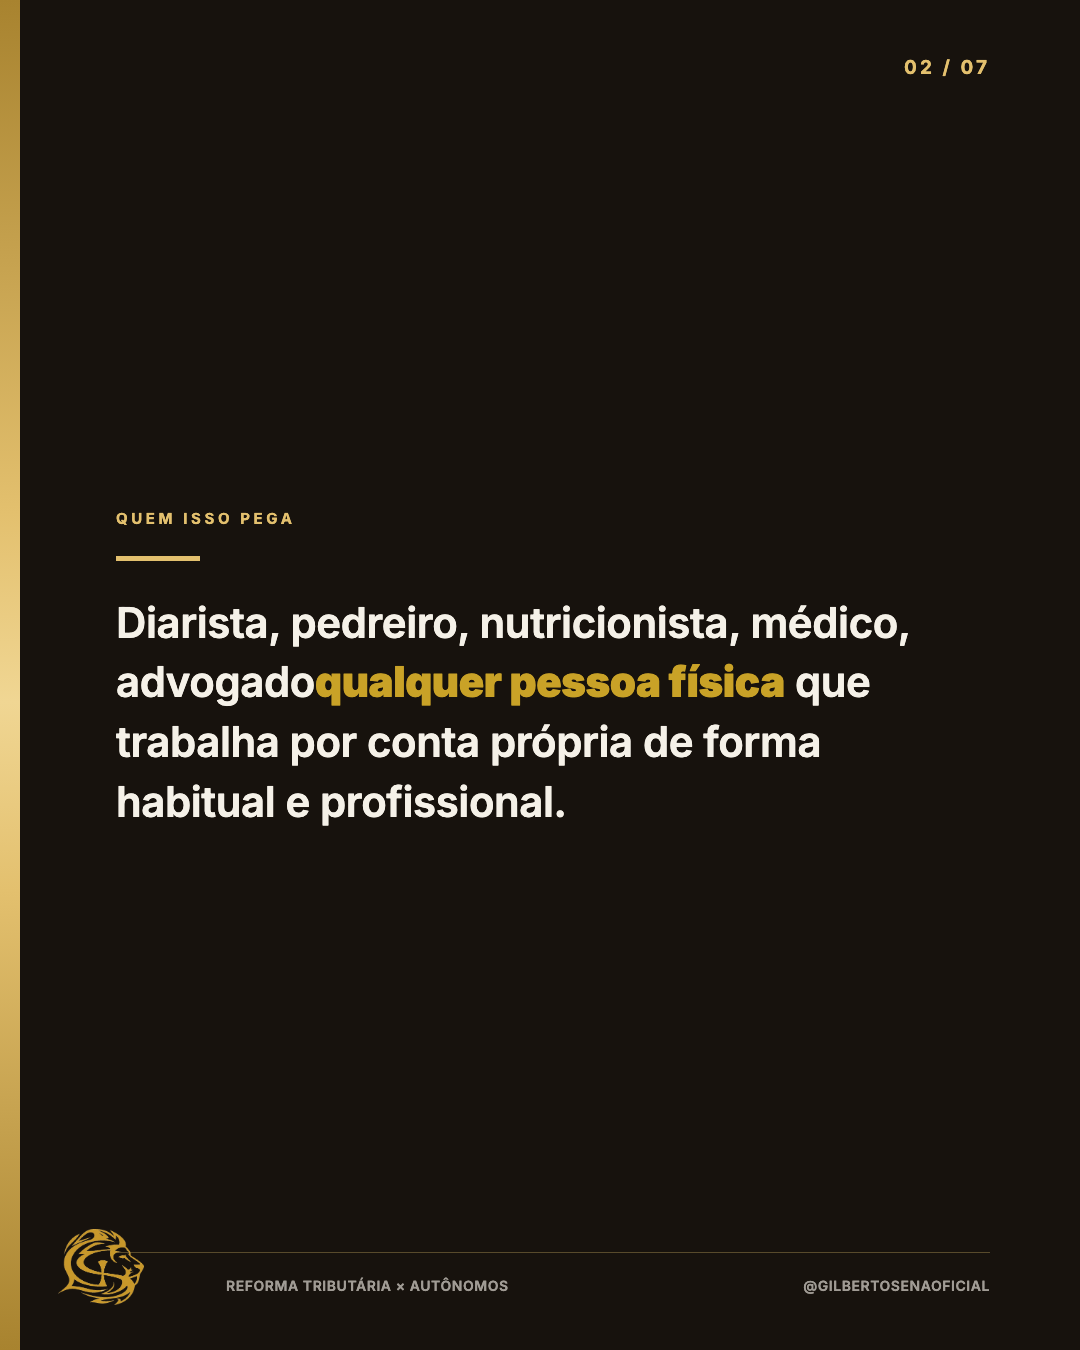
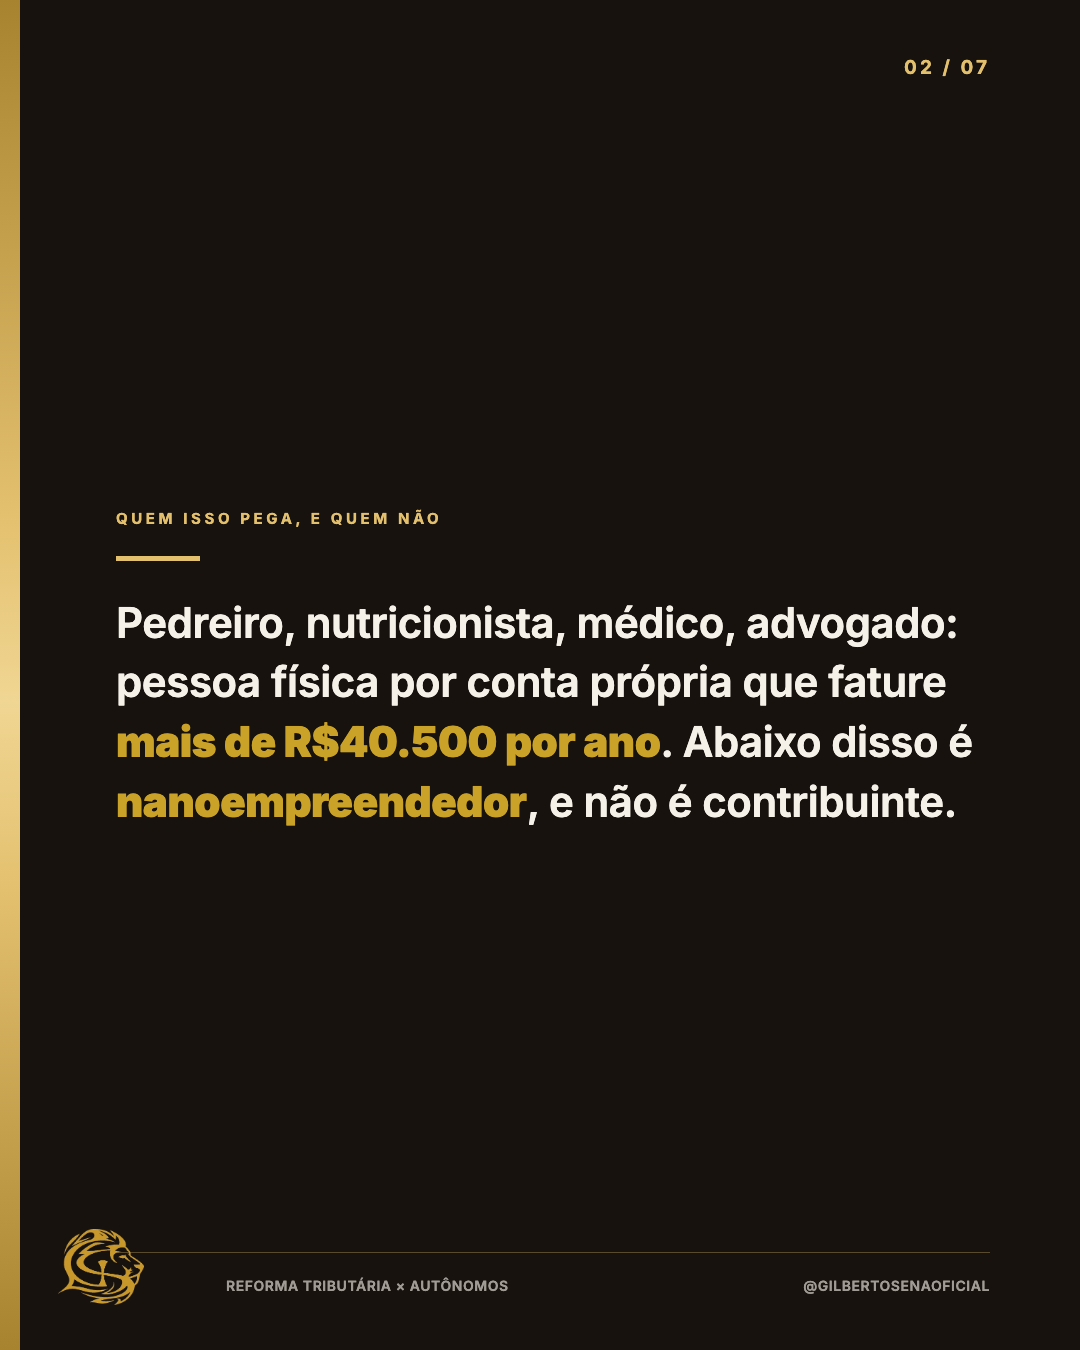
Carrossel do autonomo: entra o limiar de R$40.500 do nanoempreendedor

Changed region(s): [[0.0917, 0.4356, 0.9167, 0.6222], [0.3056, 0.3733, 0.3972, 0.4044]]

diff --git a/saidas/CARROSSEIS/carrossel-pf-autonomo-cbs-2026-08-27/carrossel.html b/saidas/CARROSSEIS/carrossel-pf-autonomo-cbs-2026-08-27/carrossel.html
@@ -162,9 +162,9 @@
     <div class="brand"><img class="logo-icon" src="../../../identidade/logo-transparente-crop.png" alt="Grupo Sena"><span class="wordmark">GILBERTO SENA</span></div>
     <span class="counter">02 / 07</span>
   </div>
-  <div class="kicker">QUEM ISSO PEGA</div>
+  <div class="kicker">QUEM ISSO PEGA, E QUEM NÃO</div>
   <div class="rule"></div>
-  <div class="solo-body">Diarista, pedreiro, nutricionista, médico, advogado<b>qualquer pessoa física</b> que trabalha por conta própria de forma habitual e profissional.</div>
+  <div class="solo-body">Pedreiro, nutricionista, médico, advogado: pessoa física por conta própria que fature <b>mais de R$40.500 por ano</b>. Abaixo disso é <b>nanoempreendedor</b>, e não é contribuinte.</div>
   <div class="footer"><span>REFORMA TRIBUTÁRIA × AUTÔNOMOS</span><span>@GILBERTOSENAOFICIAL</span></div>
 </div>
 
@@ -211,9 +211,9 @@
     <div class="brand"><img class="logo-icon" src="../../../identidade/logo-transparente-crop.png" alt="Grupo Sena"><span class="wordmark">GILBERTO SENA</span></div>
     <span class="counter">06 / 07</span>
   </div>
-  <div class="kicker">E NÃO PARA AÍ</div>
+  <div class="kicker">A EXCEÇÃO QUE VALE SABER</div>
   <div class="rule"></div>
-  <div class="solo-body">Vai precisar de <b>CNPJ técnico</b>, emitir <b>nota fiscal</b>, e provavelmente de ajuda profissional pra dar conta da gestão.</div>
+  <div class="solo-body">Motorista e entregador de aplicativo só entram acima de <b>R$162 mil por ano</b>, porque só 25% da corrida conta como receita. Quem passa do limiar precisa de <b>CNPJ</b> e <b>nota fiscal</b>.</div>
   <div class="footer"><span>REFORMA TRIBUTÁRIA × AUTÔNOMOS</span><span>@GILBERTOSENAOFICIAL</span></div>
 </div>
 

diff --git a/saidas/CARROSSEIS/carrossel-pf-autonomo-cbs-2026-08-27/legenda.md b/saidas/CARROSSEIS/carrossel-pf-autonomo-cbs-2026-08-27/legenda.md
@@ -1,14 +1,16 @@
-A partir de 2027, praticamente todo autônomo e profissional liberal vai pagar mais imposto. Mesmo sem ter empresa.
+A partir de 2027, o autônomo que fatura acima de R$40.500 por ano vira contribuinte de um imposto que pessoa física nunca pagou. Mesmo sem ter empresa.
 
-Diarista, pedreiro, nutricionista, médico, advogado: qualquer pessoa física que trabalha por conta própria de forma habitual e profissional. Hoje, ela já paga Imposto de Renda (até 27,5%), ISS (2% a 5%, ou valor fixo) e INSS (11% do salário mínimo ou 20% da remuneração bruta).
+Pedreiro, nutricionista, médico, advogado: pessoa física que trabalha por conta própria e passa desse limiar. Quem fica abaixo é nanoempreendedor pela LC 214/2025 e não é contribuinte de IBS nem de CBS. Hoje, quem passa já paga Imposto de Renda (até 27,5%), ISS (2% a 5%, ou valor fixo) e INSS (11% do salário mínimo ou 20% da remuneração bruta).
 
 Com a reforma tributária, essa mesma pessoa também vira contribuinte de CBS: o imposto que substitui PIS e Cofins, e que pessoa física nunca pagou antes.
 
 A alíquota esperada é 9,21%. Alguns setores têm redutor, às vezes de 50%, mas mesmo assim é imposto novo em cima do que já existia.
 
-E não para aí: vai precisar de CNPJ técnico, emitir nota fiscal, e provavelmente de ajuda profissional pra dar conta da gestão.
+Tem uma exceção que vale saber: motorista e entregador de aplicativo só passam do limiar acima de R$162 mil por ano, porque só 25% da corrida conta como receita.
 
-Mais imposto, mais burocracia: pra quem, até hoje, só se preocupava com o carnê-leão.
+Quem passa vai precisar de CNPJ, nota fiscal e, provavelmente, de ajuda profissional pra dar conta da gestão.
+
+Mais imposto, mais burocracia, pra quem até hoje só se preocupava com o carnê-leão. Mas a primeira conta a fazer é simples: você passa dos R$40.500 por ano?
 
 Gilberto Sena. Grupo Sena Soluções Empresariais.
 
